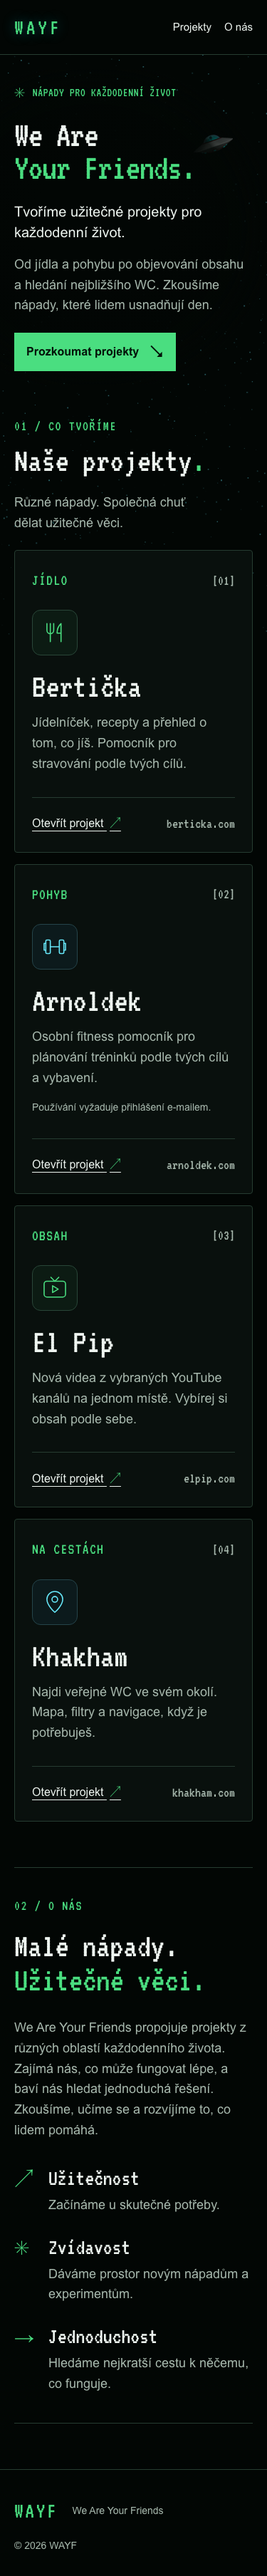
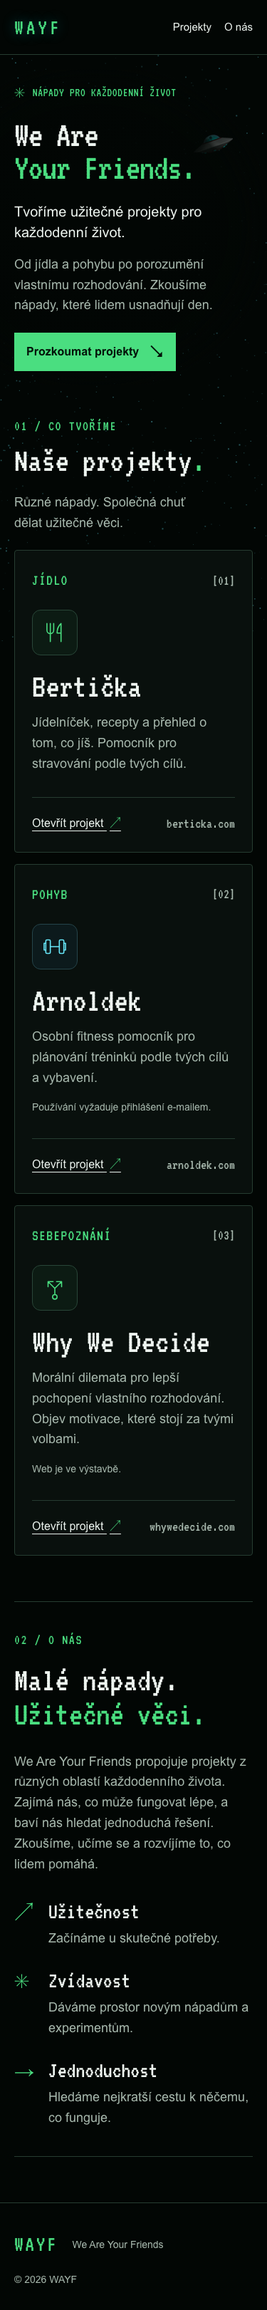
Update the portfolio to include Why We Decide

diff --git a/src/data/projects.ts b/src/data/projects.ts
@@ -17,20 +17,13 @@ export const projects = [
     note: 'Používání vyžaduje přihlášení e-mailem.',
   },
   {
-    name: 'El Pip',
-    category: 'Obsah',
-    description: 'Nová videa z vybraných YouTube kanálů na jednom místě. Vybírej si obsah podle sebe.',
-    url: 'https://elpip.com',
-    domain: 'elpip.com',
-    icon: 'video',
-  },
-  {
-    name: 'Khakham',
-    category: 'Na cestách',
-    description: 'Najdi veřejné WC ve svém okolí. Mapa, filtry a navigace, když je potřebuješ.',
-    url: 'https://khakham.com',
-    domain: 'khakham.com',
-    icon: 'location',
+    name: 'Why We Decide',
+    category: 'Sebepoznání',
+    description: 'Morální dilemata pro lepší pochopení vlastního rozhodování. Objev motivace, které stojí za tvými volbami.',
+    url: 'https://whywedecide.com',
+    domain: 'whywedecide.com',
+    icon: 'reflection',
+    note: 'Web je ve výstavbě.',
   },
 ] as const;
 

diff --git a/docs/web-v1.md b/docs/web-v1.md
@@ -43,8 +43,8 @@ verze nejsou součástí tohoto zadání. Pro kontakt použít odkaz na e-mail.
 
 **Hlavní sdělení:** Tvoříme užitečné projekty pro každodenní život.
 
-**Doprovodný text:** Od jídla a pohybu po objevování obsahu a hledání nejbližšího
-WC. Zkoušíme nápady, které lidem usnadňují den.
+**Doprovodný text:** Od jídla a pohybu po porozumění vlastnímu rozhodování.
+Zkoušíme nápady, které lidem usnadňují den.
 
 **Primární odkaz:** Prozkoumat projekty → `#projekty`.
 
@@ -66,8 +66,10 @@ Výchozí pořadí a texty karet:
 | --- | --- | --- | --- |
 | Bertička | Jídlo | Jídelníček, recepty a přehled o tom, co jíš. Pomocník pro stravování podle tvých cílů. | https://berticka.com |
 | Arnoldek | Pohyb | Osobní fitness pomocník pro plánování tréninků podle tvých cílů a vybavení. | https://arnoldek.com |
-| El Pip | Obsah | Nová videa z vybraných YouTube kanálů na jednom místě. Vybírej si obsah podle sebe. | https://elpip.com |
-| Khakham | Na cestách | Najdi veřejné WC ve svém okolí. Mapa, filtry a navigace, když je potřebuješ. | https://khakham.com |
+| Why We Decide | Sebepoznání | Morální dilemata pro lepší pochopení vlastního rozhodování. Objev motivace, které stojí za tvými volbami. | https://whywedecide.com |
+
+Výběr upraven na přání vlastníka: El Pip a Khakham zatím vyřazené, Why We Decide
+přidaný s upozorněním „Web je ve výstavbě.“ podle stavu veřejného webu.
 
 Každá karta obsahuje kategorii, název, popis a viditelný odkaz `Otevřít projekt`
 s názvem domény. Přístupný název odkazu musí obsahovat i jméno projektu.
@@ -77,7 +79,7 @@ Na desktopu použít dvě karty vedle sebe, na úzkém mobilu jednu. Karty mají
 rovnocennou vizuální váhu. Pro v1 stačí typografie a jednoduchý dekorativní
 symbol vytvořený v CSS nebo SVG; screenshoty nejsou podmínkou spuštění.
 
-Obsah čtveřice vychází z projektového plánu. Před zveřejněním ověřit zařazení,
+Obsah portfolia vychází z projektového plánu a následného výběru vlastníka. Před zveřejněním ověřit zařazení,
 popis a funkčnost cílových webů, zejména dostupné funkce Arnoldka. Pokud některý
 projekt není připravený pro návštěvníky, vynechat jeho kartu a upravit související
 text v úvodu. Nepublikovat prázdné karty ani vymyšlené statistiky, reference nebo
@@ -137,7 +139,7 @@ akcenty a retro typografie. Styl rozvinout do obsahových sekcí.
 - Zachovat funkčnost při omezení pohybu, nedostupnosti externího fontu a zvětšení textu.
 - Seznam projektů držet na jednom místě jako jednoduchá data s názvem, kategorií, popisem a URL; nepřidávat CMS ani obecný systém konfigurace.
 - Rozšiřovat existující Astro komponenty a CSS. Nové závislosti nejsou pro tento rozsah potřeba.
-- Titulek: `WAYF | We Are Your Friends`. Meta popis: `Tvoříme užitečné projekty pro každodenní život. Objev Bertičku, Arnoldka, El Pip a Khakham.` Při změně portfolia upravit i tento text.
+- Titulek: `WAYF | We Are Your Friends`. Meta popis: `Tvoříme užitečné projekty pro každodenní život. Objev Bertičku, Arnoldka a Why We Decide.` Při změně portfolia upravit i tento text.
 - Zachovat canonical URL, doplnit Open Graph a metadata pro sdílení, skutečný obrázek náhledu 1200 × 630 px a favicon odpovídající značce. Použít absolutní produkční URL pro náhled.
 - Produkční stránka musí být indexovatelná. Funkční HTTPS, hlavní doména a přesměrování variant patří do ověření nasazení podle README.
 
@@ -159,7 +161,7 @@ kontroly samy o sobě neznamenají, že je web spuštěný.
 
 ## Volby potřebné před spuštěním
 
-- Potvrdit češtinu a výchozí čtveřici projektů včetně pořadí a textů.
+- Potvrdit finální české texty; aktuální portfolio tvoří Bertička, Arnoldek a Why We Decide.
 - Doplnit veřejný e-mail a identitu provozovatele; případně osobní medailonek.
 - Ověřit aktuální připojení `wayf.cz`, chování `www` a roli `weareyourfriends.cz`.
 

diff --git a/docs/homepage-v1-status.md b/docs/homepage-v1-status.md
@@ -8,7 +8,7 @@ a [mobil 375 px](previews/mobile.png). Kontakt v těchto náhledech čeká na do
 
 ## Obsah a vzhled
 
-- Český úvod, čtyři projektové karty, sekce O nás a připravený kontakt.
+- Český úvod, tři projektové karty (Bertička, Arnoldek, Why We Decide), sekce O nás a připravený kontakt.
 - Finální vektorové logo, původní hvězdy a UFO, nové responzivní rozložení.
 - Navigace je na mobilu součástí běžného toku stránky, aby při zvětšení textu
   nezakrývala obsah. Od šířky 601 px zůstává přichycená nahoře.
@@ -18,10 +18,9 @@ a [mobil 375 px](previews/mobile.png). Kontakt v těchto náhledech čeká na do
 
 ## Ověření projektů
 
-Všechny čtyři HTTPS adresy odpovídají. Bertička má veřejný český web, El Pip
-veřejný přehled kanálů a videí, Khakham veřejnou mapu s filtry. U Khakhamu byly
-ověřeny také odpověď API a implementace navigace; automatizovaný průchod celou
-interaktivní mapou nebyl dokončen.
+Bertička má veřejný český web. Why We Decide veřejně představuje morální dilemata
+a motivační profil; karta přebírá upozornění, že web je ve výstavbě. Cílové HTTPS
+adresy odpovídají. El Pip a Khakham byly na přání vlastníka zatím vyřazené.
 
 Arnoldek přesměruje na přihlášení e-mailem. Popis plánování podle cílů a vybavení
 byl ověřen také v jeho implementaci; karta na nutnost přihlášení upozorňuje.

diff --git a/README.md b/README.md
@@ -3,7 +3,7 @@
 Statický web v **Astro + TypeScript + CSS**, nasazovaný na **Cloudflare Workers
 Static Assets** přes GitHub Actions. Vzhled vychází z `pvachek.cz/public/aliens/`:
 hvězdné pozadí s UFO, horní navigace a patička. Homepage představuje značku
-We Are Your Friends, čtyři projekty a hodnoty, které je spojují.
+We Are Your Friends, projekty Bertička, Arnoldek a Why We Decide a hodnoty, které je spojují.
 
 Zadání obsahu a dokončení homepage: [Web v1](docs/web-v1.md).
 Průběh ověření a zbývající body: [Stav implementace](docs/homepage-v1-status.md).
